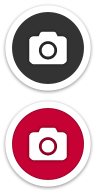
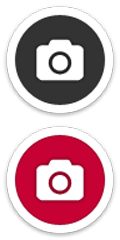
Make post chu button bigger

diff --git a/source/css/App.css b/source/css/App.css
@@ -36,9 +36,9 @@ body {
 
 /* Button for posting chus */
 .post-chu-button {
-	width: 48px;
-	height: 48px;
-	background-size: 48px 96px;
+	width: 60px;
+	height: 60px;
+	background-size: 60px 120px;
 	vertical-align: top;
 	display: inline-block;
 	background-image: url(../../assets/images/post_chu_button.png);
@@ -50,7 +50,7 @@ body {
 }
 
 .post-chu-button:active:hover:not([disabled]) {
-	background-position: 0 -48px;
+	background-position: 0 -60px;
 }
 
 /* Indicator for when the next page in a list is loaded */
